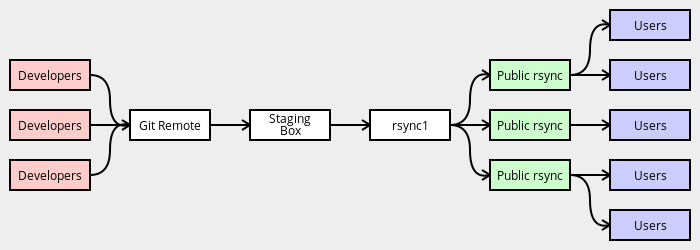
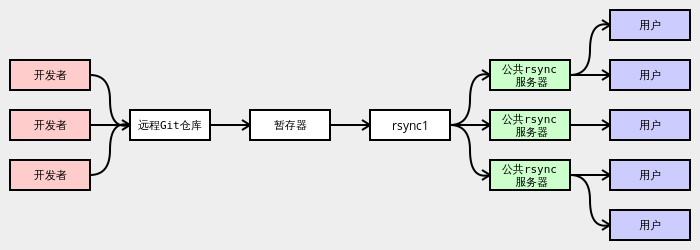
git-to-rsync

diff --git a/devmanual.gentoo.org/general-concepts/git-to-rsync/index.html b/devmanual.gentoo.org/general-concepts/git-to-rsync/index.html
@@ -1,8 +1,8 @@
 <!DOCTYPE html>
-<html lang="en">
+<html lang="zh">
 <head>
 <meta http-equiv="Content-Type" content="text/html; charset=UTF-8">
-<title>Git to RSYNC – Gentoo Development Guide</title>
+<title>从 Git 到 RSYNC – Gentoo 开发指南</title>
 <meta name="viewport" content="width=device-width, initial-scale=1.0">
 <meta name="description" content="The Gentoo Devmanual is a technical manual which covers topics such as writing ebuilds and eclasses, and policies that developers should be abiding by.">
 <link href="/assets.gentoo.org/tyrian/bootstrap.min.css" rel="stylesheet" media="screen">
@@ -54,39 +54,37 @@
 <li><a href="../../index.html">Master Index</a></li>
 <li><a href="../index.html">General Concepts</a></li>
 </ol></div></div></div></header><main><div class="container">
-<h1 class="first-header">Git to RSYNC</h1>
+<h1 class="first-header">从 Git 到 RSYNC</h1>
 
 <p>
-  Changes made to the tree are propagated to the users in stages:
+  对源码树所做的更改将分以下几个阶段传播给用户：
 </p>
 
 <ul>
   <li>
-    Developer commits to local Git clone and pushes to central remote
-    Git repository. Commits and pushes are signed using Git
-    mechanisms based on GPG.
+    开发者提交代码到本地 Git 仓库，然后推送到远程的中心 Git 仓库。提交和推送都用基于 GPG 的 Git 机制进行签名。
   </li>
   <li>
-    Staging box syncs from central Git repository, generates the metadata cache, ChangeLogs and signed Manifests from Git history.
+    暂存器从中心 Git 仓库同步，从 Git 历史记录中生成元数据、变更日志以及签名清单。
   </li>
   <li>
-    <code class="docutils literal"><span class="pre">rsync1</span></code> syncs from the staging box.
+    <code class="docutils literal"><span class="pre">rsync1</span></code> 从暂存器中同步。
   </li>
   <li>
-    Public rsync servers sync from <code class="docutils literal"><span class="pre">rsync1</span></code>.
+    公共 rsync 服务器从 <code class="docutils literal"><span class="pre">rsync1</span></code>中同步。
   </li>
   <li>
-    Users sync from the public rsync servers.
+    用户从公共 rsync 服务器中同步。
   </li>
 </ul>
 
 <div class="figure">
 <div class="image"><img alt="Git to RSYNC Propagation" src="diagram.png"></div>
-<p class="caption">Diagram showing Git to RSYNC Propagation</p>
+<p class="caption">从 Git 到 RSYNC 的传播示意图</p>
 </div>
 
 <p>
-  The <code class="docutils literal"><span class="pre">emerge-websync</span></code> snapshot is made daily from the staging box.
+  <code class="docutils literal"><span class="pre">emerge-websync</span></code> 快照每天都会在暂存器中制作。
 </p>
 
 
